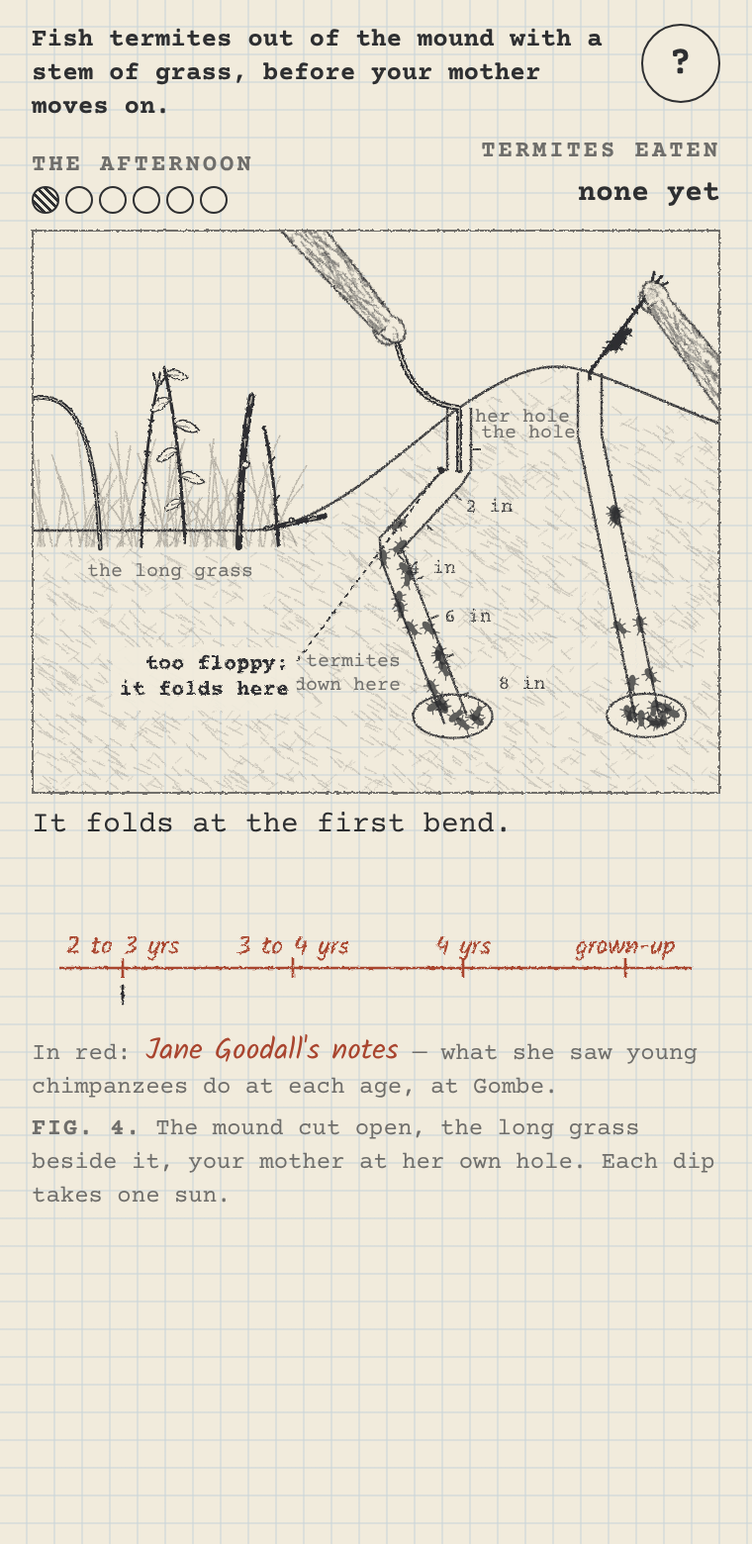
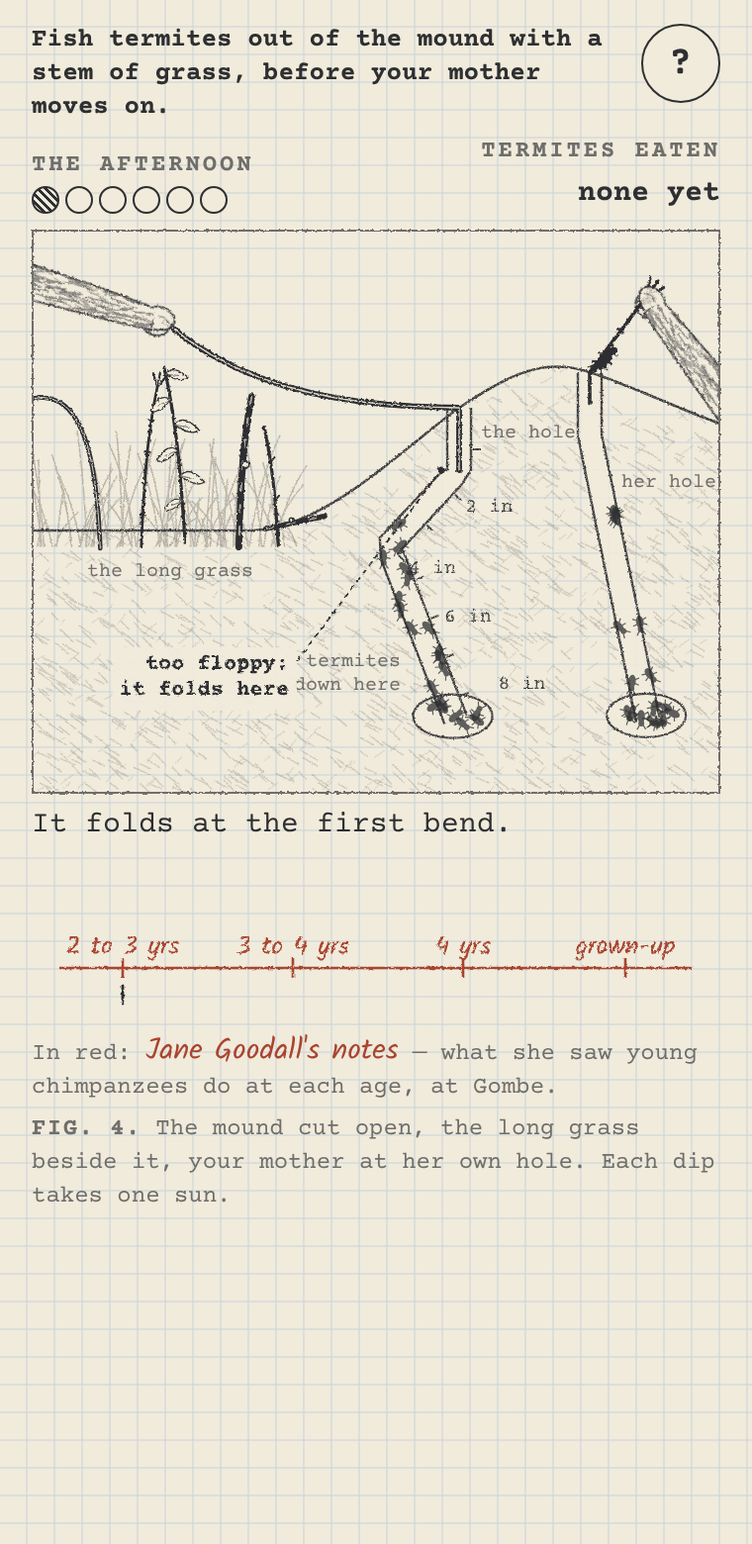
Goodall's Long Grass, revision 5: one gesture, and the stem seen whole
Press and the stem goes in by itself and waits; slide up and it comes
out at your speed; at the hollow, press and let go. The held stem lies
long across the sky so each kind is drawn as itself. Help, hints, memo
and the scripted session updated.

Claude-Session: https://claude.ai/code/session_018niUhwhtvgCJfmPN73Cyiw

diff --git a/goodall/goodalls-long-grass.html b/goodall/goodalls-long-grass.html
@@ -190,12 +190,12 @@ footer.sig a{color:var(--g2);text-decoration:none}
   <h3>Stems</h3>
   <p><b>Touch a stem in the grass to take it.</b> It comes into your hand, drawn as itself: a grass blade is wide and floppy, a grass stem thin and stiff with a seed head, a twig has leaves, a stick is thick. The line under the drawing tells you how long, how thick and how stiff it is. Whatever was in your hand before goes on the heap at the foot of the mound. The grass grows back, so you can always take another.</p>
   <h3>Fishing</h3>
-  <p><b>Press on the drawing and drag down</b> to push your stem into the hole. <b>Let go</b> to leave it there: termites bite on to whatever comes into their passage, and they need a moment. <b>Drag up</b> to pull it out: if it moves faster than they can hold on, they fall off. Whatever is on the stem when it comes out, you eat; there is no button for it. The stem goes in until something stops it: too thick for the hole, leaves catching on the rim, a floppy stem folding at a bend, or its own length. When that happens a pencil note on the drawing says what stopped it, and where. If a stem is in the hole and you touch another in the grass, the game draws the first one out for you, slowly, and gives you the other.</p>
+  <p><b>Press on the mound</b> and your stem goes into the hole by itself, as far as it will go, and waits there. Termites bite on to whatever comes into their passage, and they need a moment. <b>Slide your finger up</b> to draw the stem out: it comes out at the speed of your finger, and if that is faster than the termites can hold on, they fall off. If you lift your finger instead, the stem stays in the hole until you press and slide again. Whatever is on the stem when it comes out, you eat; there is no button for it. The stem goes in until something stops it: too thick for the hole, leaves catching on the rim, a floppy stem folding at a bend, or its own length. When that happens a pencil note on the drawing says what stopped it, and where. If a stem is in the hole and you touch another in the grass, the game draws the first one out for you, slowly, and gives you the other.</p>
   <p>Each dip takes one sun from the afternoon; when the six suns are gone, your mother moves off. A stem's end bends after a few dips: a note by your hand says <b>touch to bite it off</b>, and biting makes it an inch shorter and straight again. A leafy twig has a note that says <b>touch to strip them</b>. When your mother throws a bent stem down, it lies by her hole: touch it to take it.</p>
   <p>After each dip the game says what happened (how far in, whether there was a pause, how fast it came out, how many termites). Then, in red, a note from Jane Goodall: which age of young chimpanzee fishes the way you just did, and a tick on her ruler of ages.</p>
   <div id="helphollow" class="hidden">
     <h3>The hollow</h3>
-    <p>Rainwater in a hollow of a tree, too deep for your lips. The same drag: down to push in, up to pull out; whatever comes up wet, you suck. Touch <b>your hand</b>, <b>the stem</b> or <b>the leaves</b> to hold one of them. <b>Chew the end</b> crumples a grass end; <b>Pick some leaves</b> gives you a handful from the branch, which you can chew too. Five suns; the tube at the right fills with sips until you have drunk your fill.</p>
+    <p>Rainwater in a hollow of a tree, too deep for your lips. Press on the tree and what you hold goes in; let go and it comes out; whatever comes up wet, you suck. Touch <b>your hand</b>, <b>the stem</b> or <b>the leaves</b> to hold one of them. <b>Chew the end</b> crumples a grass end; <b>Pick some leaves</b> gives you a handful from the branch, which you can chew too. Five suns; the tube at the right fills with sips until you have drunk your fill.</p>
   </div>
   <button class="slip dark" id="helpback">Back</button>
 </section>
@@ -1028,7 +1028,7 @@ function handArt() { // a chimpanzee's hand from the upper left, pinching the st
 function fingerArt() { // your fingers, alone (the hollow)
   return `<path d="M -6 -40 C -8 -20, -7 -8, -4 0 C -2 4, 2 4, 4 0 C 6 -8, 7 -20, 6 -40" fill="${PAPER}" stroke="${G}" stroke-width="1.2"/><path d="M -2 -10 C 0 -9, 2 -9, 3 -10" stroke="${G2}" stroke-width="0.8" fill="none"/>`;
 }
-const YOURDIR = { x: -0.66, y: -0.75 }, HERDIR = { x: 0.6, y: -0.8 };
+const YOURDIR = { x: -0.96, y: -0.28 }, HERDIR = { x: 0.6, y: -0.8 };
 function heldStem(view, who) { // who: 'you' | 'her'. view: { stem, d, excess, on:[off] }
   const st = view.stem; if (!st) return '';
   const hollow = view.place === 'hollow';
@@ -1041,7 +1041,7 @@ function heldStem(view, who) { // who: 'you' | 'her'. view: { stem, d, excess, o
   const al = hollow ? (x => ({ x: HOLLOW.x, y: HOLLOW.y + x * K, dx: 0, dy: 1 })) : who === 'her' ? alongHer : along;
   const dir = hollow ? { x: -0.62, y: -0.785 } : who === 'her' ? HERDIR : YOURDIR;
   // outside: foreshortened so the hand stays on the page, and moves as the stem goes in
-  const full = Math.max(0.3, st.len - C.GRIP) * K, f = Math.min(1, (who === 'her' ? 52 : 70) / full);
+  const full = Math.max(0.3, st.len - C.GRIP) * K, f = Math.min(1, (who === 'her' ? 52 : hollow ? 70 : 186) / full);
   const outLen = Math.max(8, (st.len - C.GRIP - view.d) * K * f);
   const ex = Math.min(view.excess || 0, 1.5) * K * 1.2 * f;
   const chord = Math.max(8, outLen - ex * [1.0, 0.6, 0.2][st.stiff == null ? 2 : st.stiff]);
@@ -1167,7 +1167,7 @@ function renderPlay() {
   $('#donebox').classList.toggle('hidden', !ended || play.busy);
   $('#rulerwrap').classList.toggle('hidden', !mound);
   const firstHere = play.dipsHere === 0 && !leaving && !ended;
-  $('#hint').textContent = firstHere && !g.dip ? (mound ? (st ? 'drag down: in · let go: stays · drag up: out' : 'touch a stem in the long grass to take it') : 'drag down: in · drag up: out, and suck') : '';
+  $('#hint').textContent = firstHere && !g.dip ? (mound ? (st ? 'press on the mound: the stem goes in and waits · slide up: it comes out' : 'touch a stem in the long grass to take it') : 'press on the tree: it goes in · let go: it comes out, and you suck it') : '';
 }
 function setResult(typed, red, fresh) {
   $('#typed').textContent = typed; $('#red').textContent = red || '';
@@ -1187,23 +1187,27 @@ function onDown(e) {
   if (!st) { setResult('Nothing in your hand. Touch a stem in the long grass to take it.', ''); return; }
   const ds = M.startDip(g); if (!ds) return;
   e.preventDefault(); $('#sec').setPointerCapture && $('#sec').setPointerCapture(e.pointerId);
-  play.drag = { y0: e.clientY, d0: ds.d, scale: svgScale() }; if (ds.d === 0) play.note = '';
+  play.drag = { y0: e.clientY, dRef: ds.d, scale: svgScale(), phase: ds.d >= ds.lim.depth - 0.05 ? 'out' : 'in', yRef: e.clientY }; if (ds.d === 0) play.note = '';
   play.target = ds.d; $('#hint').textContent = ''; drawSection();
   if (!play.anim) { play.last = performance.now(); play.anim = requestAnimationFrame(tick); }
 }
 const FOLD_MAX = 1.5;
 function onMove(e) {
   if (!play.drag || !g.dip) return;
-  const px = play.drag.scale * K;
-  let raw = play.drag.d0 + (e.clientY - play.drag.y0) / px;
-  const hi = g.dip.lim.depth + FOLD_MAX, lo = -0.5;
-  if (raw > hi) { play.drag.y0 += (raw - hi) * px; raw = hi; }
-  if (raw < lo) { play.drag.y0 += (raw - lo) * px; raw = lo; }
+  const d = play.drag, px = d.scale * K;
+  if (d.phase === 'in') { if (d.y0 - e.clientY > 5) { d.phase = 'out'; d.yRef = e.clientY; d.dRef = g.dip.d; } else return; } // the stem is going in by itself; a slide up starts the pull
+  let raw = d.dRef + (e.clientY - d.yRef) / px;                    // only upward movement pulls; moving down again pushes back no deeper than it was
+  if (raw > d.dRef) { d.yRef += (raw - d.dRef) * px; raw = d.dRef; }
+  if (raw < -0.5) { d.yRef += (raw + 0.5) * px; raw = -0.5; }
   play.target = raw;
 }
 function onUp() {
-  if (!play.drag) return; play.drag = null;
-  if (g.dip && !play.autoPull) { if (g.dip.maxD < C.ENTER_MIN && play.target < C.ENTER_MIN) { M.cancelDip(g); stopAnim(); play.view = null; renderPlay(); return; } play.target = Math.min(play.target, g.dip.d); }
+  if (!play.drag) return; const wasIn = play.drag.phase === 'in'; play.drag = null;
+  if (!g.dip || play.autoPull) return;
+  if (g.dip.place === 'hollow') { play.autoPull = true; if (!play.anim) { play.last = performance.now(); play.anim = requestAnimationFrame(tick); } return; } // at the hollow, letting go brings it out
+  if (wasIn) { play.target = g.dip.lim.depth + 0.3; return; }  // the stem stays in, pushed home, until you slide it out
+  if (g.dip.d < 1.2) { play.autoPull = true; if (!play.anim) { play.last = performance.now(); play.anim = requestAnimationFrame(tick); } return; } // nearly out: the last inch comes out by itself
+  play.target = Math.min(play.target, g.dip.d);
 }
 function stopAnim() { if (play.anim) cancelAnimationFrame(play.anim); play.anim = null; }
 function tick(now) {
@@ -1211,6 +1215,7 @@ function tick(now) {
   const st = M.inHand(g);
   if (g.dip) {
     if (play.autoPull) play.target = Math.max(-0.5, g.dip.d - 3 * dt);
+    else if (play.drag && play.drag.phase === 'in') play.target = Math.min(g.dip.lim.depth + 0.3, play.target + 6 * dt); // going in by itself, at a grown-up's push
     const ev = M.dipStep(g, play.target, dt);
     const ds = g.dip;
     if (ds) {
@@ -1313,7 +1318,7 @@ function enterMound() {
   $('#paim').textContent = 'Fish termites out of the mound with a stem of grass, before your mother moves on.';
   $('#sunlab').textContent = 'The afternoon'; $('#tallylab').textContent = 'Termites eaten';
   $('#intro').innerHTML = '<b>FIG. 4.</b> The mound cut open, the long grass beside it, your mother at her own hole. Each dip takes one sun.';
-  setResult('Your mother fishes at her own hole. Termites bite on to whatever comes into their passage. Touch a stem in the long grass to take it; then press on the drawing and drag it down into the hole, give them a moment, and drag it up. What comes up on the stem, you eat.', '');
+  setResult('Your mother fishes at her own hole. Termites bite on to whatever comes into their passage. Touch a stem in the long grass to take it. Then press on the mound: the stem goes into the hole by itself and waits there. Slide your finger up, and it comes out. What comes up on the stem, you eat.', '');
   drawRuler($('#ruler'), g.dips, 46);
   show('play'); renderPlay();
 }

diff --git a/goodall/template.html b/goodall/template.html
@@ -190,12 +190,12 @@ footer.sig a{color:var(--g2);text-decoration:none}
   <h3>Stems</h3>
   <p><b>Touch a stem in the grass to take it.</b> It comes into your hand, drawn as itself: a grass blade is wide and floppy, a grass stem thin and stiff with a seed head, a twig has leaves, a stick is thick. The line under the drawing tells you how long, how thick and how stiff it is. Whatever was in your hand before goes on the heap at the foot of the mound. The grass grows back, so you can always take another.</p>
   <h3>Fishing</h3>
-  <p><b>Press on the drawing and drag down</b> to push your stem into the hole. <b>Let go</b> to leave it there: termites bite on to whatever comes into their passage, and they need a moment. <b>Drag up</b> to pull it out: if it moves faster than they can hold on, they fall off. Whatever is on the stem when it comes out, you eat; there is no button for it. The stem goes in until something stops it: too thick for the hole, leaves catching on the rim, a floppy stem folding at a bend, or its own length. When that happens a pencil note on the drawing says what stopped it, and where. If a stem is in the hole and you touch another in the grass, the game draws the first one out for you, slowly, and gives you the other.</p>
+  <p><b>Press on the mound</b> and your stem goes into the hole by itself, as far as it will go, and waits there. Termites bite on to whatever comes into their passage, and they need a moment. <b>Slide your finger up</b> to draw the stem out: it comes out at the speed of your finger, and if that is faster than the termites can hold on, they fall off. If you lift your finger instead, the stem stays in the hole until you press and slide again. Whatever is on the stem when it comes out, you eat; there is no button for it. The stem goes in until something stops it: too thick for the hole, leaves catching on the rim, a floppy stem folding at a bend, or its own length. When that happens a pencil note on the drawing says what stopped it, and where. If a stem is in the hole and you touch another in the grass, the game draws the first one out for you, slowly, and gives you the other.</p>
   <p>Each dip takes one sun from the afternoon; when the six suns are gone, your mother moves off. A stem's end bends after a few dips: a note by your hand says <b>touch to bite it off</b>, and biting makes it an inch shorter and straight again. A leafy twig has a note that says <b>touch to strip them</b>. When your mother throws a bent stem down, it lies by her hole: touch it to take it.</p>
   <p>After each dip the game says what happened (how far in, whether there was a pause, how fast it came out, how many termites). Then, in red, a note from Jane Goodall: which age of young chimpanzee fishes the way you just did, and a tick on her ruler of ages.</p>
   <div id="helphollow" class="hidden">
     <h3>The hollow</h3>
-    <p>Rainwater in a hollow of a tree, too deep for your lips. The same drag: down to push in, up to pull out; whatever comes up wet, you suck. Touch <b>your hand</b>, <b>the stem</b> or <b>the leaves</b> to hold one of them. <b>Chew the end</b> crumples a grass end; <b>Pick some leaves</b> gives you a handful from the branch, which you can chew too. Five suns; the tube at the right fills with sips until you have drunk your fill.</p>
+    <p>Rainwater in a hollow of a tree, too deep for your lips. Press on the tree and what you hold goes in; let go and it comes out; whatever comes up wet, you suck. Touch <b>your hand</b>, <b>the stem</b> or <b>the leaves</b> to hold one of them. <b>Chew the end</b> crumples a grass end; <b>Pick some leaves</b> gives you a handful from the branch, which you can chew too. Five suns; the tube at the right fills with sips until you have drunk your fill.</p>
   </div>
   <button class="slip dark" id="helpback">Back</button>
 </section>
@@ -471,7 +471,7 @@ function handArt() { // a chimpanzee's hand from the upper left, pinching the st
 function fingerArt() { // your fingers, alone (the hollow)
   return `<path d="M -6 -40 C -8 -20, -7 -8, -4 0 C -2 4, 2 4, 4 0 C 6 -8, 7 -20, 6 -40" fill="${PAPER}" stroke="${G}" stroke-width="1.2"/><path d="M -2 -10 C 0 -9, 2 -9, 3 -10" stroke="${G2}" stroke-width="0.8" fill="none"/>`;
 }
-const YOURDIR = { x: -0.66, y: -0.75 }, HERDIR = { x: 0.6, y: -0.8 };
+const YOURDIR = { x: -0.96, y: -0.28 }, HERDIR = { x: 0.6, y: -0.8 };
 function heldStem(view, who) { // who: 'you' | 'her'. view: { stem, d, excess, on:[off] }
   const st = view.stem; if (!st) return '';
   const hollow = view.place === 'hollow';
@@ -484,7 +484,7 @@ function heldStem(view, who) { // who: 'you' | 'her'. view: { stem, d, excess, o
   const al = hollow ? (x => ({ x: HOLLOW.x, y: HOLLOW.y + x * K, dx: 0, dy: 1 })) : who === 'her' ? alongHer : along;
   const dir = hollow ? { x: -0.62, y: -0.785 } : who === 'her' ? HERDIR : YOURDIR;
   // outside: foreshortened so the hand stays on the page, and moves as the stem goes in
-  const full = Math.max(0.3, st.len - C.GRIP) * K, f = Math.min(1, (who === 'her' ? 52 : 70) / full);
+  const full = Math.max(0.3, st.len - C.GRIP) * K, f = Math.min(1, (who === 'her' ? 52 : hollow ? 70 : 186) / full);
   const outLen = Math.max(8, (st.len - C.GRIP - view.d) * K * f);
   const ex = Math.min(view.excess || 0, 1.5) * K * 1.2 * f;
   const chord = Math.max(8, outLen - ex * [1.0, 0.6, 0.2][st.stiff == null ? 2 : st.stiff]);
@@ -610,7 +610,7 @@ function renderPlay() {
   $('#donebox').classList.toggle('hidden', !ended || play.busy);
   $('#rulerwrap').classList.toggle('hidden', !mound);
   const firstHere = play.dipsHere === 0 && !leaving && !ended;
-  $('#hint').textContent = firstHere && !g.dip ? (mound ? (st ? 'drag down: in · let go: stays · drag up: out' : 'touch a stem in the long grass to take it') : 'drag down: in · drag up: out, and suck') : '';
+  $('#hint').textContent = firstHere && !g.dip ? (mound ? (st ? 'press on the mound: the stem goes in and waits · slide up: it comes out' : 'touch a stem in the long grass to take it') : 'press on the tree: it goes in · let go: it comes out, and you suck it') : '';
 }
 function setResult(typed, red, fresh) {
   $('#typed').textContent = typed; $('#red').textContent = red || '';
@@ -630,23 +630,27 @@ function onDown(e) {
   if (!st) { setResult('Nothing in your hand. Touch a stem in the long grass to take it.', ''); return; }
   const ds = M.startDip(g); if (!ds) return;
   e.preventDefault(); $('#sec').setPointerCapture && $('#sec').setPointerCapture(e.pointerId);
-  play.drag = { y0: e.clientY, d0: ds.d, scale: svgScale() }; if (ds.d === 0) play.note = '';
+  play.drag = { y0: e.clientY, dRef: ds.d, scale: svgScale(), phase: ds.d >= ds.lim.depth - 0.05 ? 'out' : 'in', yRef: e.clientY }; if (ds.d === 0) play.note = '';
   play.target = ds.d; $('#hint').textContent = ''; drawSection();
   if (!play.anim) { play.last = performance.now(); play.anim = requestAnimationFrame(tick); }
 }
 const FOLD_MAX = 1.5;
 function onMove(e) {
   if (!play.drag || !g.dip) return;
-  const px = play.drag.scale * K;
-  let raw = play.drag.d0 + (e.clientY - play.drag.y0) / px;
-  const hi = g.dip.lim.depth + FOLD_MAX, lo = -0.5;
-  if (raw > hi) { play.drag.y0 += (raw - hi) * px; raw = hi; }
-  if (raw < lo) { play.drag.y0 += (raw - lo) * px; raw = lo; }
+  const d = play.drag, px = d.scale * K;
+  if (d.phase === 'in') { if (d.y0 - e.clientY > 5) { d.phase = 'out'; d.yRef = e.clientY; d.dRef = g.dip.d; } else return; } // the stem is going in by itself; a slide up starts the pull
+  let raw = d.dRef + (e.clientY - d.yRef) / px;                    // only upward movement pulls; moving down again pushes back no deeper than it was
+  if (raw > d.dRef) { d.yRef += (raw - d.dRef) * px; raw = d.dRef; }
+  if (raw < -0.5) { d.yRef += (raw + 0.5) * px; raw = -0.5; }
   play.target = raw;
 }
 function onUp() {
-  if (!play.drag) return; play.drag = null;
-  if (g.dip && !play.autoPull) { if (g.dip.maxD < C.ENTER_MIN && play.target < C.ENTER_MIN) { M.cancelDip(g); stopAnim(); play.view = null; renderPlay(); return; } play.target = Math.min(play.target, g.dip.d); }
+  if (!play.drag) return; const wasIn = play.drag.phase === 'in'; play.drag = null;
+  if (!g.dip || play.autoPull) return;
+  if (g.dip.place === 'hollow') { play.autoPull = true; if (!play.anim) { play.last = performance.now(); play.anim = requestAnimationFrame(tick); } return; } // at the hollow, letting go brings it out
+  if (wasIn) { play.target = g.dip.lim.depth + 0.3; return; }  // the stem stays in, pushed home, until you slide it out
+  if (g.dip.d < 1.2) { play.autoPull = true; if (!play.anim) { play.last = performance.now(); play.anim = requestAnimationFrame(tick); } return; } // nearly out: the last inch comes out by itself
+  play.target = Math.min(play.target, g.dip.d);
 }
 function stopAnim() { if (play.anim) cancelAnimationFrame(play.anim); play.anim = null; }
 function tick(now) {
@@ -654,6 +658,7 @@ function tick(now) {
   const st = M.inHand(g);
   if (g.dip) {
     if (play.autoPull) play.target = Math.max(-0.5, g.dip.d - 3 * dt);
+    else if (play.drag && play.drag.phase === 'in') play.target = Math.min(g.dip.lim.depth + 0.3, play.target + 6 * dt); // going in by itself, at a grown-up's push
     const ev = M.dipStep(g, play.target, dt);
     const ds = g.dip;
     if (ds) {
@@ -756,7 +761,7 @@ function enterMound() {
   $('#paim').textContent = 'Fish termites out of the mound with a stem of grass, before your mother moves on.';
   $('#sunlab').textContent = 'The afternoon'; $('#tallylab').textContent = 'Termites eaten';
   $('#intro').innerHTML = '<b>FIG. 4.</b> The mound cut open, the long grass beside it, your mother at her own hole. Each dip takes one sun.';
-  setResult('Your mother fishes at her own hole. Termites bite on to whatever comes into their passage. Touch a stem in the long grass to take it; then press on the drawing and drag it down into the hole, give them a moment, and drag it up. What comes up on the stem, you eat.', '');
+  setResult('Your mother fishes at her own hole. Termites bite on to whatever comes into their passage. Touch a stem in the long grass to take it. Then press on the mound: the stem goes into the hole by itself and waits there. Slide your finger up, and it comes out. What comes up on the stem, you eat.', '');
   drawRuler($('#ruler'), g.dips, 46);
   show('play'); renderPlay();
 }

diff --git a/goodall/session-test.js b/goodall/session-test.js
@@ -12,17 +12,17 @@ const say = s => console.log(s);
   const pick = async t => { const j = await page.evaluate(t => window.__goodall.g.grass.findIndex(x => x.type === t), t); if (j < 0) { say(`  (no ${t} in the clump)`); return false; }
     await page.dispatchEvent(`[data-pick="${j}"] path`, 'pointerdown', { bubbles: true, pointerId: 1 }); await page.waitForTimeout(250); say(`  take ${t}: ${await text('#typed')}`); return true; };
   const act = async a => { const el = await page.$(`[data-act="${a}"] rect`); if (!el) { say(`  (no ${a} tag)`); return false; } await page.dispatchEvent(`[data-act="${a}"] rect`, 'pointerdown', { bubbles: true, pointerId: 1 }); await page.waitForTimeout(250); say(`  ${a}: ${await text('#typed')}`); return true; };
-  const geom = async () => { const b = await page.$eval('#sec', e => { const r = e.getBoundingClientRect(); return { x: r.x, y: r.y, w: r.width, h: r.height }; }); return { px: 21 * b.w / 348, x: b.x + b.w * 0.5, y: b.y + b.h * 0.3 }; };
-  async function dip(inches, pause, pullMs, opts) { // a real-time drag on the plate: in at ~6 in/s, a pause, out at pullMs per thirtieth
-    opts = opts || {}; const G = await geom(); const n = 30;
+  const geom = async () => { const b = await page.$eval('#sec', e => { const r = e.getBoundingClientRect(); return { x: r.x, y: r.y, w: r.width, h: r.height }; }); return { px: 21 * b.w / 348, x: b.x + b.w * 0.55, y: b.y + b.h * 0.62 }; };
+  async function dip(inches, pause, pullMs, opts) { // one gesture: press (the stem goes in by itself), wait, slide up at pullMs per thirtieth; at the hollow, press and let go
+    opts = opts || {}; const G = await geom(); const n = 30; const hollow = (await state()).phase === 'hollow';
     await page.mouse.move(G.x, G.y); await page.mouse.down();
-    for (let i = 1; i <= n; i++) { await page.mouse.move(G.x, G.y + inches * G.px * i / n); await page.waitForTimeout(16); }
-    if (opts.release) { await page.mouse.up(); await page.waitForTimeout(pause * 1000); if (opts.mid) await opts.mid(); await page.mouse.move(G.x, G.y + inches * G.px); await page.mouse.down(); }
+    await page.waitForTimeout(Math.max(400, inches / 6 * 1000 + 200));
+    if (opts.release) { await page.mouse.up(); await page.waitForTimeout(pause * 1000); if (opts.mid) await opts.mid(); await page.mouse.move(G.x, G.y); await page.mouse.down(); await page.waitForTimeout(100); }
     else await page.waitForTimeout(pause * 1000);
     if (opts.shotIn) await shot(opts.shotIn);
-    for (let i = n - 1; i >= -2; i--) { await page.mouse.move(G.x, G.y + inches * G.px * i / n); await page.waitForTimeout(pullMs); }
+    if (!hollow) for (let i = 1; i <= n; i++) { await page.mouse.move(G.x, G.y - (inches * G.px + 12) * i / n); await page.waitForTimeout(pullMs); }
     await page.mouse.up(); await page.waitForTimeout(2400);
-    const s = await state(); say(`  dip (push ${inches} in, pause ${pause} s, pull ${pullMs} ms/step): ${await text('#typed')}  [red] ${await text('#red')}  → suns ${s.suns}, termites ${s.eaten}${s.phase === 'hollow' || s.phase === 'end' ? ', sips ' + s.sips : ''}`);
+    const s = await state(); say(`  dip (${hollow ? 'press and let go' : 'press, pause ' + pause + ' s, slide up at ' + pullMs + ' ms/step'}): ${await text('#typed')}  [red] ${await text('#red')}  → suns ${s.suns}, termites ${s.eaten}${s.phase === 'hollow' || s.phase === 'end' ? ', sips ' + s.sips : ''}`);
     return s;
   }
   const hold = async k => { await page.click(`#hold [data-hold="${k}"]`); await page.waitForTimeout(150); say(`  hold ${k}`); };

diff --git a/goodall/memo.md b/goodall/memo.md
@@ -131,7 +131,7 @@ One game in two places, about five minutes, and one drawing for each. At the mou
 
 ## 12. Controls, mechanism, feedback, moment
 
-- **Controls.** *Mound:* touch a stem standing in the grass to take it (one in hand at a time; the other goes on the heap); one vertical drag on the plate (down pushes in, release leaves it, up draws out); if a stem is in the hole and another is touched, the game draws the first out at a slow pull and switches; two pencil tags on the plate, present only when they apply, are touches: *leaves on it: touch to strip them*, *bent end: touch to bite it off*; your mother's thrown-down stem lies between the holes with *her stem: touch to take*. Watching her costs nothing: she fishes in the picture after every sun. *Hollow:* the same drag; slips to hold the stem, your hand or the leaves; CHEW THE END; PICK SOME LEAVES.
+- **Controls.** *Mound:* touch a stem standing in the grass to take it (one in hand at a time; the other goes on the heap); one gesture on the plate: press, and the stem goes into the hole by itself at a grown-up's push and waits there (lifting the finger leaves it in); slide the finger up, and it comes out at the finger's speed, the last inch by itself; if a stem is in the hole and another is touched, the game draws the first out at a slow pull and switches; two pencil tags on the plate, present only when they apply, are touches: *leaves on it: touch to strip them*, *bent end: touch to bite it off*; your mother's thrown-down stem lies between the holes with *her stem: touch to take*. Watching her costs nothing: she fishes in the picture after every sun. *Hollow:* press and what you hold goes in, let go and it comes out (speed is nothing to water); slips to hold the stem, your hand or the leaves; CHEW THE END; PICK SOME LEAVES.
 - **Mechanism (formalised from the argument; numbers in CONFIG).** The passage: entrance a quarter inch wide (a thick stick stops at the rim; unstripped leaves catch there), a bend at 1½ inches, a second at 4 inches, termites from 3 inches down to the end at 8. A stem has a length, a thickness, a stiffness (floppy, springy, stiff), leaves or none, and a tip that wears. It goes in as far as the finger pushes, unless stopped: a floppy stem (or a bent tip) folds at the first bend, a springy one at the second; the grip uses 1½ inches, so a four-inch twig reaches 2½. Termites bite on to the part of the stem below 3 inches at a rate per inch, gathering over a second or two after the stem stops moving. Each termite has a grip; a termite lets go when the stem moves faster than its grip, so a slow pull keeps them all and a flick keeps none. Every dip past the first bend wears the tip; three dips and it is bent. The mother fishes an adult's dip every sun. *Hollow:* the water stands 3 inches down; a hand reaches 1½ inches; a plain stem lifts a sip, a crumpled end more, a chewed wad of leaves most; each suck crumples a grass end a little more, as the paper says; twelve sips is enough. Each dip is classed on Goodall's scale by what happened: the wrong material (too thick, leaves on, too short) or a jerk: two years; a floppy stem in an inch or two: three; smooth and in three to five inches, or a short tool: four; smooth and in five to eight, with a full-length stem: adult.
 - **Feedback.** The stem drawn in the passage moving with the thumb, folding where it folds; termites appearing along it and clinging; termites dropping as it comes up too fast; the eat (termites picked off the stem one by one into the tally); the result in the game's voice (typed); then Goodall's line in red pencil with a tick on her age ruler. At the hollow: the stem coming out dark with water, the drops, the gauge.
 - **Moment.** The slow pull after the fast one. Then the hollow, with nothing explained.
@@ -228,3 +228,4 @@ Result: 26 checks, 26 passed (`calibration-result.txt`).
 - **Revision 1c (3 Nov, after his third play: "I cannot easily switch to one of the other stems").** While a stem was in the hole (left there, or folded), a touch on another slot was silently ignored until the stem had been dragged out. Now a touch on another stem draws the one in the hole out at a slow pull (nothing on it is lost, the dip counts as the dip it was) and then takes the one touched; the slot label says so while a stem is in ("touch another: this one comes out first"). A touch that never entered the hole costs nothing and switches at once.
 - **Revision 3 (3 Nov, "make it beautiful and human").** After four plays he found the apparatus (three slots, a ruler strip, fetch, switch) more than the paper asked for, the stems all alike ("asparagus"), and no progression from round to round. Rebuilt around one drawing and one stem at a time: the long grass with five standing stems, the mound with your hole and hers, your mother fishing in the picture every sun, the heap of dropped stems growing at the mound's foot, your stem drawn as itself in the grass, in your hand and in the passage (one `stemArt` for all three), her thrown-down stem touchable, leaves and bent ends touched on the plate instead of buttons, no slots, no fetch, no watch button. Mechanism: `beginMound`, `pickFromGrass` (the clump grows back by kind), `dropHeld`; `pickUpHers` heaps the stem in hand; the verdict's learning line now says she fished beside you and how many stems you tried; CARRY, the long-grass phase and the calibration harness unchanged (calibration 26 of 26). The grass screen, hand box, slots and the watch/fetch buttons are gone from the template; `build.py` rebuilds the HTML from `template.html`, which earlier revisions had bypassed. Measured: phone 380 × 780, plate 232–518 with the result at 524; laptop 1280 × 700, plate 106–440, result 446, red line 491. Scripted session rewritten for the new flow (three afternoons, no errors, no horizontal scroll). Kept from the paper's grass: the kinds, lengths, and the floor of one of each.
 - **Revision 4 (3 Nov).** Twelve rounds felt too many to him; the afternoon is six suns. Consequences in the numbers: her stem bends and is thrown down once (at the third sun); a player's stem bends once; trial and error now gets about half of the best (23 of 48), so the calibration's check reads "near half" (0.4) instead of "most of the way" (0.5); every other check unchanged, 26 of 26.
+- **Revision 5 (4 Nov, "still very complicated: I also have to move the stem back; the big stems all look alike").** Two gestures became one: pressing on the mound sends the stem in by itself (6 in/s, the push the mother uses) until something stops it, and it waits; sliding up draws it out at the finger's speed, with the last inch finished by the game so a pull never stalls at the rim; lifting without sliding leaves it in. At the hollow, press and let go is the whole dip. The held stem now lies long across the sky from the hand at the left edge to the hole (186 px drawn of its real length), so a blade sags, a stick is thick with bark and a knot, a leafy twig carries its leaves and a grass stem its nodes and seed head, where before all four were a short line into a hand. Help and hints updated; scripted session re-run clean (three afternoons); mechanism unchanged.
